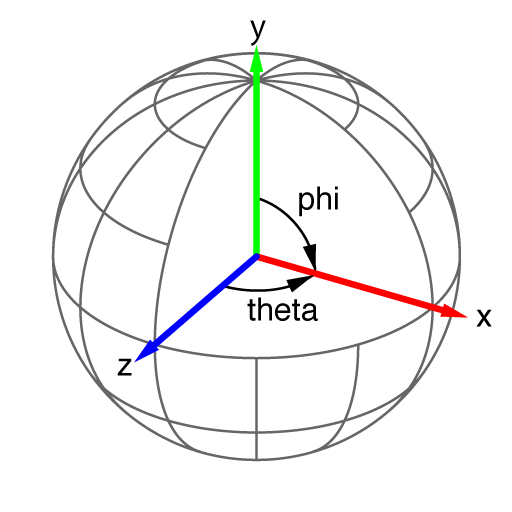
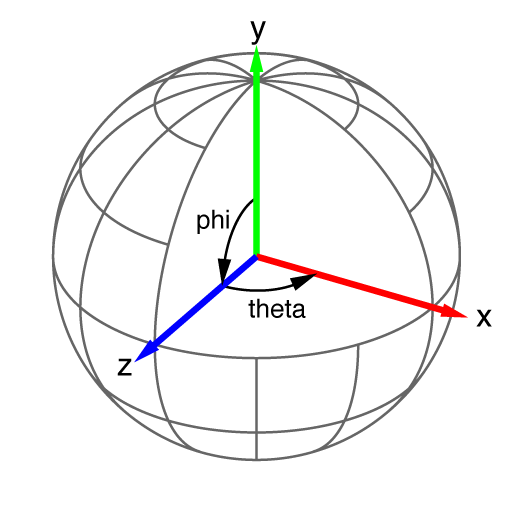
update readme

Changed region(s): [[0.375, 0.375, 0.5312, 0.5625], [0.4688, 0.4688, 0.625, 0.625], [0.5312, 0.375, 0.6875, 0.4688]]

diff --git a/src/camera-controls.js b/src/camera-controls.js
@@ -72,8 +72,7 @@ export default class CameraControls extends EventDispatcher {
 		this._targetEnd = new THREE.Vector3();
 
 		// rotation
-		this._spherical = new THREE.Spherical();
-		this._spherical.setFromVector3( this.object.position );
+		this._spherical = new THREE.Spherical().setFromVector3( this.object.position );
 		this._sphericalEnd = this._spherical.clone();
 
 		// reset
@@ -84,7 +83,7 @@ export default class CameraControls extends EventDispatcher {
 		this._dollyControlAmount = 0;
 		this._dollyControlCoord = new THREE.Vector2();
 		this._needsUpdate = true;
-		this.update();
+		this.update( 0 );
 
 		if ( ! this.domElement || options.ignoreDOMEventListeners ) {
 
@@ -320,10 +319,9 @@ export default class CameraControls extends EventDispatcher {
 
 					case STATE.ROTATE:
 					case STATE.TOUCH_ROTATE:
-
-						const rotX = 2 * Math.PI * scope.phiSpeed   * deltaX / elementRect.width;
-						const rotY = 2 * Math.PI * scope.thetaSpeed * deltaY / elementRect.height;
-						scope.rotate( rotX, rotY, true );
+						const phi   = 2 * Math.PI * scope.phiSpeed   * deltaX / elementRect.width;
+						const theta = 2 * Math.PI * scope.thetaSpeed * deltaY / elementRect.height;
+						scope.rotate( phi, theta, true );
 						break;
 
 					case STATE.DOLLY:
@@ -452,24 +450,24 @@ export default class CameraControls extends EventDispatcher {
 
 	}
 
-	// rotX in radian
-	// rotY in radian
-	rotate( rotX, rotY, enableTransition ) {
+	// azimuthAngle in radian
+	// polarAngle in radian
+	rotate( azimuthAngle, polarAngle, enableTransition ) {
 
 		this.rotateTo(
-			this._sphericalEnd.theta + rotX,
-			this._sphericalEnd.phi   + rotY,
+			this._sphericalEnd.theta + azimuthAngle,
+			this._sphericalEnd.phi   + polarAngle,
 			enableTransition
 		);
 
 	}
 
-	// rotX in radian
-	// rotY in radian
-	rotateTo( rotX, rotY, enableTransition ) {
+	// azimuthAngle in radian
+	// polarAngle in radian
+	rotateTo( azimuthAngle, polarAngle, enableTransition ) {
 
-		const theta = Math.max( this.minAzimuthAngle, Math.min( this.maxAzimuthAngle, rotX ) );
-		const phi   = Math.max( this.minPolarAngle,   Math.min( this.maxPolarAngle,   rotY ) );
+		const theta = Math.max( this.minAzimuthAngle, Math.min( this.maxAzimuthAngle, azimuthAngle ) );
+		const phi   = Math.max( this.minPolarAngle,   Math.min( this.maxPolarAngle,   polarAngle ) );
 
 		this._sphericalEnd.theta = theta;
 		this._sphericalEnd.phi   = phi;

diff --git a/readme.md b/readme.md
@@ -59,7 +59,7 @@ const cameraControls = new CameraControls( camera, renderer.domElement );
 
 CameraControls uses Spherical Coordinates for orbit rotations. `theta` for azimuthal and `phi` for polar angle.
 
-If your camera is Y-up, `theta` will be x-rotation and `phi` is y-rotation. (So far, CameraControls supports only Y-up though)
+If your camera is Y-up, `theta` will be the angle for y-axis rotation and `phi` will be the angle for vertiacal position. (So far, CameraControls supports only Y-up though)
 
 ![](https://yomotsu.github.io/camera-controls/examples/fig1.png)
 
@@ -83,20 +83,23 @@ If your camera is Y-up, `theta` will be x-rotation and `phi` is y-rotation. (So 
 
 ## Events
 
-Using `addEventListener( eventname, function )` you can subscribe to these events.
+CameraControls instance emits the following events.
+To subscribe, use `cameraControl.addEventListener( 'eventname', function )`.
 
-- `controlstart`: Fired when the user starts to control the camera via mouse / touches.
-- `control`: Fired when the user controls the camera (dragging).
-- `controlend`: Fired when the user ends to control the camera.
-- `update`: Fired when camera position is updated.
+| event name     | timing |
+| ---            | ---    |
+| `controlstart` | When the user starts to control the camera via mouse / touches. |
+| `control`      | When the user controls the camera (dragging). |
+| `controlend`   | When the user ends to control the camera. |
+| `update`       | When camera position is updated. |
 
 ## Methods
 
-#### `rotate( theta, phi, enableTransition )`
+#### `rotate( azimuthAngle, polarAngle, enableTransition )`
 
-Rotate azimuthal angle(theta) and polar angle(phi). `theta` and `phi` are in radian. `enableTransition` is in a boolean.
+Rotate azimuthal angle(theta) and polar angle(phi). `azimuthAngle` and `polarAngle` are in radian. `enableTransition` is in a boolean.
 
-#### `rotateTo( rotX, rotY, enableTransition )`
+#### `rotateTo( azimuthAngle, polarAngle, enableTransition )`
 
 Rotate azimuthal angle(theta) and polar angle(phi) to a given point.
 
@@ -106,7 +109,7 @@ Dolly in/out camera position. `distance` is in a number. `enableTransition` is i
 
 #### `dollyTo( distance, enableTransition )`
 
-Dolly in/out camera position to given distance
+Dolly in/out camera position to given distance.
 
 #### `truck( x, y, enableTransition )`
 
